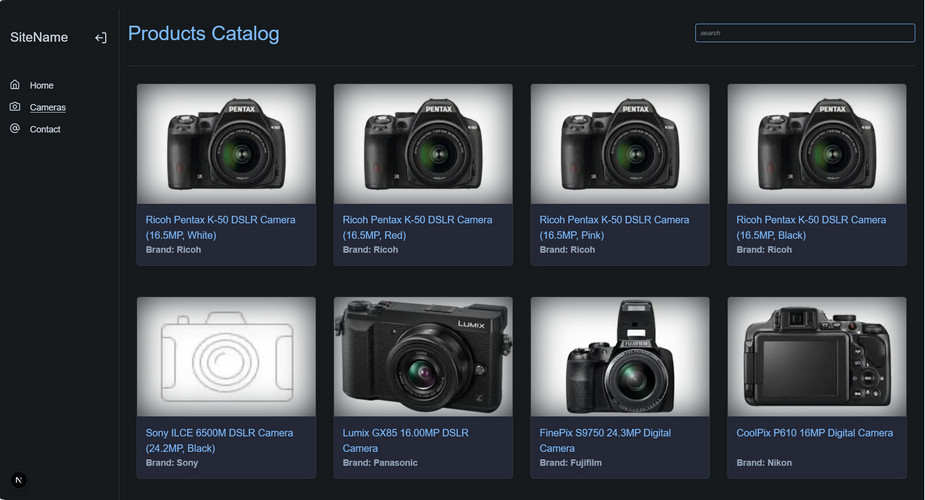
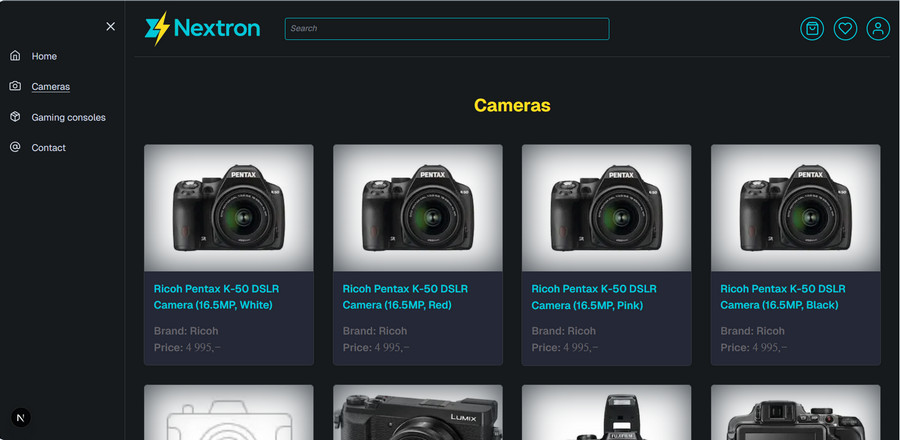
Refactor Sidebar and Header:
site logo moved from Sidebar to Header;
new breakpoint 896px for header;
new logo and fav icon;

diff --git a/src/components/ui/Logo.jsx b/src/components/ui/Logo.jsx
@@ -1,23 +1,36 @@
+import Image from 'next/image'
 import Link from 'next/link'
 import clsx from 'clsx'
 import { SITE_NAME } from '@/constants/seo.constants'
 import { PUB_PAGES } from '@/lib/routes-helpers/public-pages'
 
-export function Logo({ isSidebar = true }) {
+export function Logo({ isInHeader = true, className }) {
 	return (
-		<div
+		<Link
+			href={PUB_PAGES.HOME}
+			title={`${SITE_NAME} - homepage`}
+			aria-label={`${SITE_NAME} - homepage`}
 			className={clsx(
-				!isSidebar && 'mb-6 mt-13 bp480:mb-12 bp480:mt16 text-center sm:text-left sm:mx-5'
+				'relative flex items-center justify-center sm:justify-start',
+				className,
+				!isInHeader && 'mb-6 mt-13 bp480:mb-12 bp480:mt16 sm:mx-16'
 			)}
 		>
-			<Link
-				href={PUB_PAGES.HOME}
-				title={`${SITE_NAME} - homepage`}
-				aria-label={`${SITE_NAME} - homepage`}
-				className='inline-block'
-			>
-				<h2 className='text-2xl'>SiteLogo</h2>
-			</Link>
-		</div>
+			<Image
+				src='/images/nextron-logo.png'
+				alt={`${SITE_NAME} logo`}
+				width={300}
+				height={100}
+				style={{
+					objectFit: 'contain',
+					width: '100%',
+					minWidth: '130px',
+					maxWidth: '200px',
+					height: 'auto'
+				}}
+				className='content-center'
+				sizes='(max-width: 300px) 100vw, 300px'
+			/>
+		</Link>
 	)
 }

diff --git a/src/components/layout/header/Header.jsx b/src/components/layout/header/Header.jsx
@@ -1,10 +1,26 @@
+import Image from 'next/image'
+import Link from 'next/link'
 import { DynamicWrapperNoChildren } from '@/components/DynamicWrapperNoChildren'
+import { Logo } from '@/components/ui/Logo'
+import { SITE_NAME } from '@/constants/seo.constants'
 import { UserMenu } from './UserMenu'
+import { PUB_PAGES } from '@/lib/routes-helpers/public-pages'
 
 export function Header() {
 	return (
-		<section className='flex items-center justify-between h-20 mx-4 border-b lg:h-30 border-border'>
-			<div className='w-1/2 sm:1/3 2xl:w-[980px]'>
+		<section className='flex items-center justify-between h-20 mx-4 border-b bp896:h-24 border-border'>
+			<Logo className='max-w-[200px] hidden bp896:block bp896:ml-4' />
+			<Link href={PUB_PAGES.HOME}>
+				<Image
+					src='/images/nextron-fav.png'
+					alt={`${SITE_NAME} logo`}
+					title={`${SITE_NAME} homepage`}
+					width={32}
+					height={45}
+					className='min-w-7 bp520:ml-4 bp896:hidden h-auto'
+				/>
+			</Link>
+			<div className='w-full max-w-[600px] mx-4 sm:px-6'>
 				<DynamicWrapperNoChildren
 					componentKey='search-input'
 					exportName='SearchInput'

diff --git a/src/components/layout/sidebar/Sidebar.jsx b/src/components/layout/sidebar/Sidebar.jsx
@@ -4,7 +4,6 @@ import { AnimatePresence } from 'framer-motion'
 import * as m from 'framer-motion/m'
 import { useSidebar } from '@/providers/SidebarProvider'
 import { NAV_LINKS } from '@/constants/sidebar-links'
-import { SidebarHeader } from './header/SidebarHeader'
 import { SidebarMenu } from './menu/SidebarMenu'
 
 export function Sidebar() {
@@ -14,18 +13,14 @@ export function Sidebar() {
 		<AnimatePresence>
 			<m.aside
 				className='whitespace-nowrap border-r border-border bg-bg w-0 fixed top-0 left-0 bottom-0 z-50 lg:sticky lg:top-0 lg:z-0 lg:h-screen'
-				animate={{ width: isCollapsedSidebar ? 56 : 200 }}
+				animate={{ width: isCollapsedSidebar ? 56 : 250 }}
 				initial={false}
 				transition={{ type: 'spring', stiffness: 300, damping: 23 }}
 			>
-				<SidebarHeader
-					isCollapsed={isCollapsedSidebar}
-					toggleSidebar={toggleSidebar}
-				/>
-
 				<SidebarMenu
 					menu={NAV_LINKS}
 					isCollapsed={isCollapsedSidebar}
+					toggleSidebar={toggleSidebar}
 				/>
 			</m.aside>
 		</AnimatePresence>

diff --git a/src/components/layout/sidebar/menu/SidebarMenu.jsx b/src/components/layout/sidebar/menu/SidebarMenu.jsx
@@ -2,13 +2,24 @@
 
 import { usePathname } from 'next/navigation'
 import { match } from 'path-to-regexp'
+import { Menu, X } from 'react-feather'
 import { MenuItem } from './MenuItem'
 
-export function SidebarMenu({ menu, isCollapsed }) {
+export function SidebarMenu({ menu, isCollapsed, toggleSidebar }) {
 	const pathname = usePathname()
 	return (
 		<nav className='overflow-hidden'>
-			<ul className='p-4'>
+			<ul className='mt-4 p-4 space-y-3'>
+				<li>
+					<button
+						onClick={toggleSidebar}
+						className='cursor-pointer hover:text-accentSecondary w-full'
+						title={isCollapsed ? 'Open Menu' : 'Collapse sidebar'}
+						aria-label={isCollapsed ? 'Open Menu' : 'Collapse sidebar'}
+					>
+						{isCollapsed ? <Menu /> : <X className='float-right -mr-1' />}
+					</button>
+				</li>
 				{menu.map(menuItem => {
 					const isActive = !!match(menuItem.link, { end: false })(pathname)
 					return (

diff --git a/src/app/layout.jsx b/src/app/layout.jsx
@@ -21,8 +21,8 @@ const nanum = Nanum_Myeongjo({
 
 export const metadata = {
 	icons: {
-		icon: '/images/logo.svg',
-		shortcut: '/images/logo.svg',
+		icon: '/images/nextron-fav.png',
+		shortcut: '/images/nextron-fav.png',
 		apple: '/images/256.png',
 		other: {
 			rel: 'touch-icons',
@@ -44,8 +44,8 @@ export const metadata = {
 		images: [
 			{
 				url: '/images/og.jpg',
-				width: 925,
-				height: 500,
+				width: 900,
+				height: 440,
 				alt: `${SITE_NAME}`,
 				type: 'image/jpg'
 			}

diff --git a/src/app/not-found.jsx b/src/app/not-found.jsx
@@ -3,7 +3,7 @@ import { Logo } from '@/components/ui/Logo'
 export default function NotFoundPage(page = true, text = 'Page') {
 	return (
 		<div className='w-full h-screen flex flex-col mx-auto'>
-			{page && <Logo isSidebar={false} />}
+			{page && <Logo isInHeader={false} />}
 			<div className='mx-auto w-1/2 mt-24 text-center'>
 				<h2 className='font-bold text-6xl mb-5'>404</h2>
 				<p className='text-xl'>{text} not found!</p>

diff --git a/src/components/buttons/header/UserMenuButton.jsx b/src/components/buttons/header/UserMenuButton.jsx
@@ -14,7 +14,7 @@ export function UserMenuButton({
 	const content = (
 		<div
 			className={clsx(
-				'relative flex items-center justify-center rounded-full bp520:border-2   transition-all',
+				'relative flex items-center justify-center rounded-full bp520:border-2 transition-all',
 				isActiveIcon
 					? 'border-accent text-accent'
 					: 'border-accentSecondary text-accentSecondary hover:border-accent  hover:text-accent'

diff --git a/src/app/auth/[[...auth]]/AuthPage.jsx b/src/app/auth/[[...auth]]/AuthPage.jsx
@@ -31,7 +31,7 @@ export function AuthPage() {
 
 	return (
 		<section className='w-full h-full flex flex-col mx-auto mb-6'>
-			<Logo isSidebar={false} />
+			<Logo isInHeader={false} />
 			<div className='w-fit min-h-[411px]  bp480:w-fit bp480:min-w-96 bg-bg p-4 bp480:p-8 bp480:border border-border rounded mx-auto flex flex-col justify-between gap-6'>
 				<div className='flex justify-center gap-6'>
 					{tabs.map(tab => (

diff --git a/src/components/layout/header/SearchInput.jsx b/src/components/layout/header/SearchInput.jsx
@@ -29,7 +29,7 @@ export function SearchInput() {
 					required
 					value={value}
 					onChange={e => setValue(e.target.value)}
-					className='w-full min-w-40 border border-accentSecondary text-xs italic p-1.5 sm:p-2 rounded md:ml-4'
+					className='w-full min-w-40 border border-accentSecondary text-xs italic p-1.5 sm:p-2 bp896:text-sm rounded'
 				/>
 			</label>
 		</form>

diff --git a/src/components/layout/header/UserMenu.jsx b/src/components/layout/header/UserMenu.jsx
@@ -33,7 +33,7 @@ export function UserMenu() {
 
 	const isActiveIcon = href => !!match(href, { end: false })(pathname)
 	return (
-		<div className='flex items-center gap-4 md:pr-4 max-w-[250px]'>
+		<div className='flex items-center gap-2 bp520:gap-4 max-w-[250px] ml-auto'>
 			{role === 'admin' && (
 				<UserMenuButton
 					href='/admin'

diff --git a/src/app/globals.css b/src/app/globals.css
@@ -12,6 +12,7 @@
   --color-dark-gray: #65646B;
   --breakpoint-bp520: 520px;
   --breakpoint-bp480: 480px;
+  --breakpoint-bp896: 896px;
   --font-geist-sans: 'Geist', sans-serif;
   --font-nanum: 'Nanum Myeongjo', sans-serif;
 
